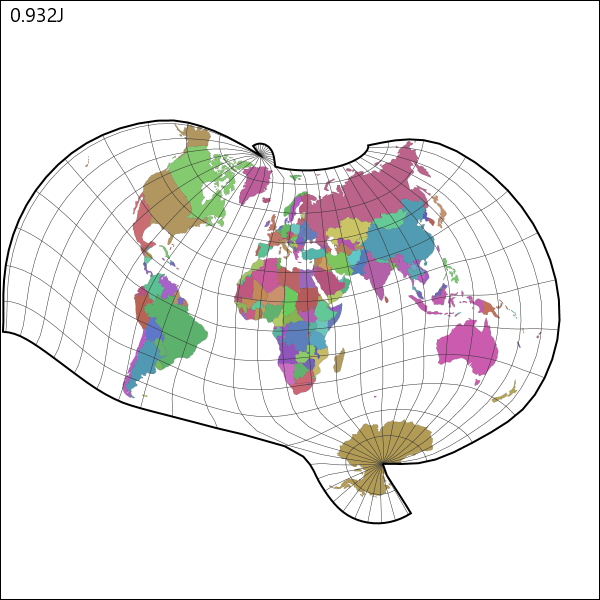
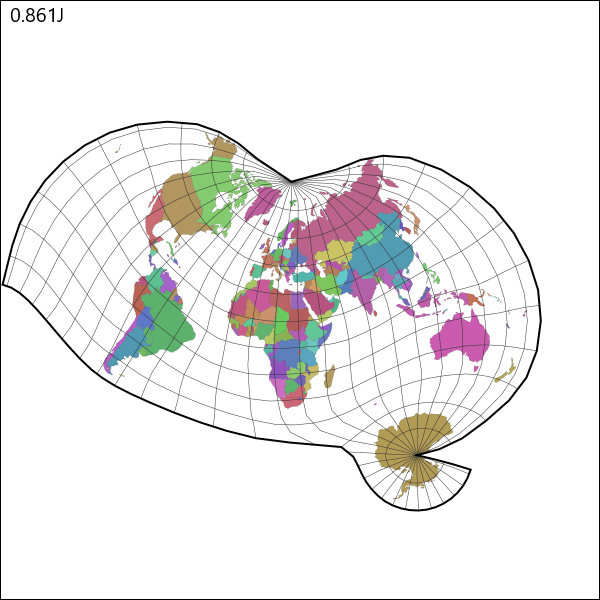
New protocol
I just touched up some comments and imports and things, and added height and width to the protocol. I also changed the extension from the fictional .map to the more appropriate .csv.

Changed region(s): [[0.0, 0.18, 0.96, 0.9], [0.03, 0.0, 0.09, 0.06], [0.09, 0.33, 0.12, 0.36]]

diff --git a/src/model/Mesh.java b/src/model/Mesh.java
@@ -23,13 +23,11 @@
  */
 package model;
 
-import java.io.File;
 import java.io.PrintStream;
 import java.util.ArrayList;
 import java.util.Arrays;
 import java.util.Collection;
 import java.util.Collections;
-import java.util.HashSet;
 import java.util.LinkedList;
 import java.util.List;
 import java.util.stream.Collectors;
@@ -47,7 +45,7 @@ import utils.Matrix;
  * 
  * @author Justin Kunimune
  */
-public class Mesh {
+public class Mesh { // TODO: change to CC
 	
 	private static final double STEP = 1e-8; // an arbitrarily small number
 	private static final double ARMIJO_GOLDSTEIN_C = 0.7;
@@ -292,7 +290,8 @@ public class Mesh {
 	/**
 	 * Save this mesh to an ASCII print stream in the following format:
 	 * 
-	 *      The first line is the comma-separated number of vertices l, height of cell table n, and width of cell table m.
+	 *      The first line is the comma-separated number of vertices l, height of cell table n, and width of cell table m,
+	 *      the width of the map w, and the height of the map h.
 	 * 
 	 *      This is followed by l rows of comma-separated x and y values for each vertex, in order.
 	 * 
@@ -303,17 +302,17 @@ public class Mesh {
 	 * @param out - the print stream to which to print all this information.
 	 */
 	public void save(PrintStream out) {
-		out.printf("%d,%d,%d,\n", vertices.size(), cells.length, cells[0].length); // the head
-		for (int i = 0; i < vertices.size(); i ++)
+		out.printf("%d,%d,%d,%f,%f,\n", vertices.size(), cells.length, cells[0].length, this.getWidth(), this.getHeight()); // the header
+		for (int i = 0; i < vertices.size(); i ++) // the vertex coordinates
 			out.printf("%f,%f,\n", vertices.get(i).getX(), vertices.get(i).getY());
-		for (int y = 0; y < cells.length; y ++) {
+		for (int y = 0; y < cells.length; y ++) { // the cell corners
 			for (int x = 0; x < cells[y].length; x ++) {
 				for (int i = 0; i < 4; i ++)
 					out.printf("%d,", vertices.indexOf(cells[y][x].getCorner(i)));
 				out.printf("\n");
 			}
 		}
-		for (Vertex v: edge)
+		for (Vertex v: edge) // the edge
 			out.printf("%d,", vertices.indexOf(v));
 		out.printf("\n");
 	}
@@ -342,6 +341,30 @@ public class Mesh {
 	 */
 	public Iterable<Vertex> getEdge() {
 		return this.edge;
+	}
+	
+	
+	public double getWidth() {
+		double maxX = Integer.MIN_VALUE, minX = Integer.MAX_VALUE;
+		for (Vertex v: this.getVerticesUnmodifiable()) {
+			if (v.getX() > maxX)
+				maxX = v.getX();
+			if (v.getX() < minX)
+				minX = v.getX();
+		}
+		return maxX - minX;
+	}
+	
+	
+	public double getHeight() {
+		double maxY = Integer.MIN_VALUE, minY = Integer.MAX_VALUE;
+		for (Vertex v: this.getVerticesUnmodifiable()) {
+			if (v.getY() > maxY)
+				maxY = v.getY();
+			if (v.getY() < minY)
+				minY = v.getY();
+		}
+		return maxY - minY;
 	}
 	
 	

diff --git a/src/view/Main.java b/src/view/Main.java
@@ -53,7 +53,7 @@ import utils.ImgUtils;
 public final class Main extends Application {
 	
 	public static final String CONFIG_FILENAME = "simpleweights";
-	public static final int MESH_RESOLUTION = 15; // the number of nodes from the equator to the pole NOTE: takes about 60 seconds to visibly converge at res 12
+	public static final int MESH_RESOLUTION = 9; // the number of nodes from the equator to the pole NOTE: takes about 60 seconds to visibly converge at res 12
 	public static final double PRECISION = 1e-5; // if the energy changes by less than this in one step, we're done
 	public static final int VIEW_SIZE = 600; // size of the viewing window
 	public static final double MAX_FRAME_RATE = 24; // don't render more frames than this per second
@@ -63,6 +63,7 @@ public final class Main extends Application {
 			"ne_110m_admin_0_countries", "ne_110m_graticules_15"};
 	
 	private final String numeral;
+	private final String description;
 	private final Mesh mesh;
 	private final Renderer renderer;
 	private Task<Void> modelWorker;
@@ -74,8 +75,8 @@ public final class Main extends Application {
 		config.load(new FileReader(String.format("config/%s.properties", CONFIG_FILENAME)));
 		
 		this.numeral = config.getProperty("numeral");
-		String desc = config.getProperty("desc");
-		System.out.printf("Loaded parameters for projection %s: %s\n", numeral, desc);
+		description = config.getProperty("desc");
+		System.out.printf("Loaded parameters for projection %s: %s\n", numeral, description);
 		InitialConfig INIT_CONFIG = InitialConfig.fromName( // get important variables from the config file
 													config.getProperty("init", "sinusoidal"));
 		double LAMBDA = Double.parseDouble(			config.getProperty("lambda", "1.0"));
@@ -142,7 +143,7 @@ public final class Main extends Application {
 				System.out.println(String.format("The final convergence is %.3fJ.", mesh.getTotEnergy()));
 				
 				try {
-					mesh.save(new PrintStream(new File(String.format("output/danseiji%s%d.map", numeral, MESH_RESOLUTION)))); // save the mesh!
+					mesh.save(new PrintStream(new File(String.format("output/danseiji%s%d.csv", numeral, MESH_RESOLUTION)))); // save the mesh!
 				} catch (FileNotFoundException e1) {
 					e1.printStackTrace();
 				}

diff --git a/src/model/Vertex.java b/src/model/Vertex.java
@@ -23,7 +23,6 @@
  */
 package model;
 
-import java.util.Arrays;
 import java.util.Collection;
 import java.util.Collections;
 import java.util.HashMap;
